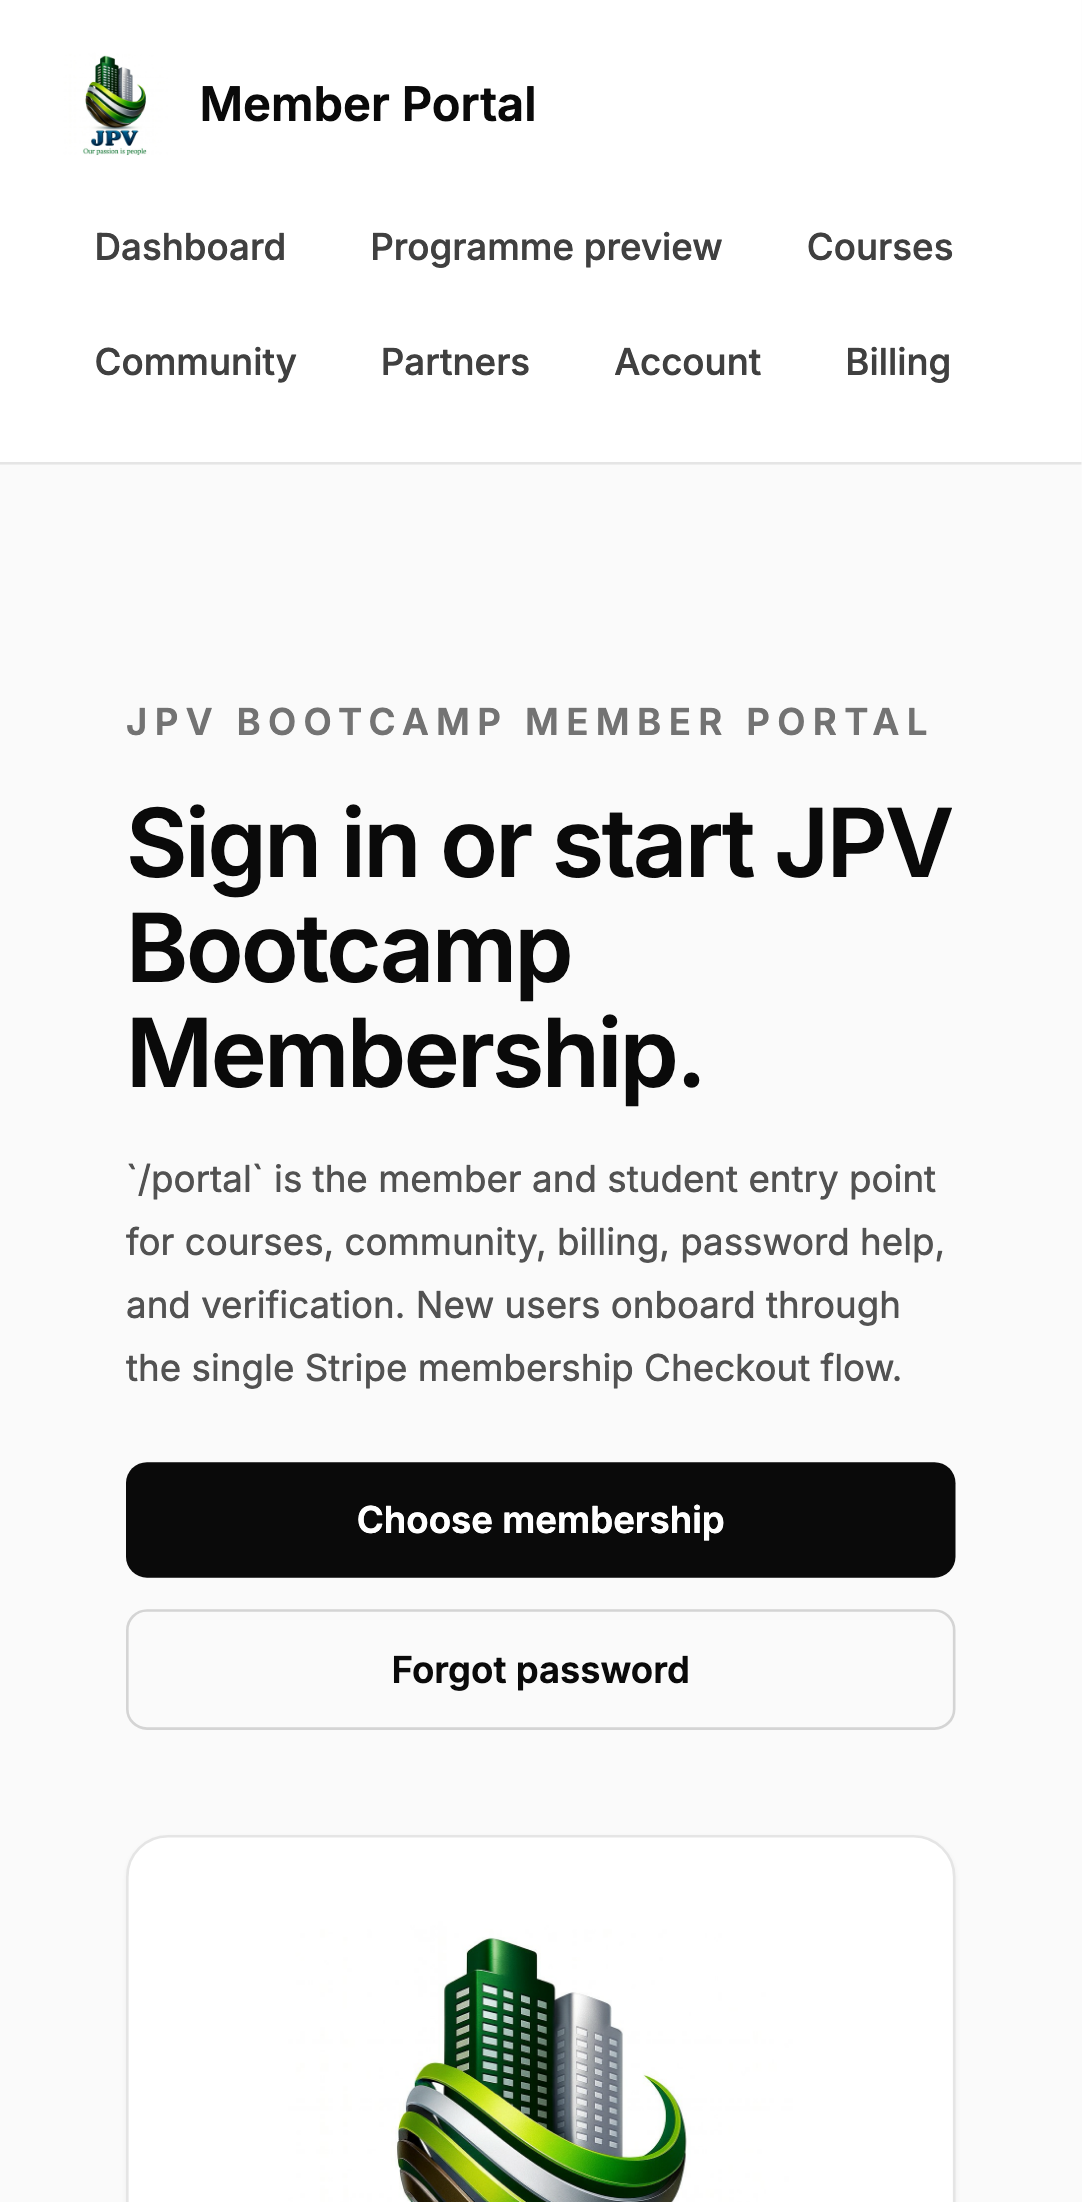
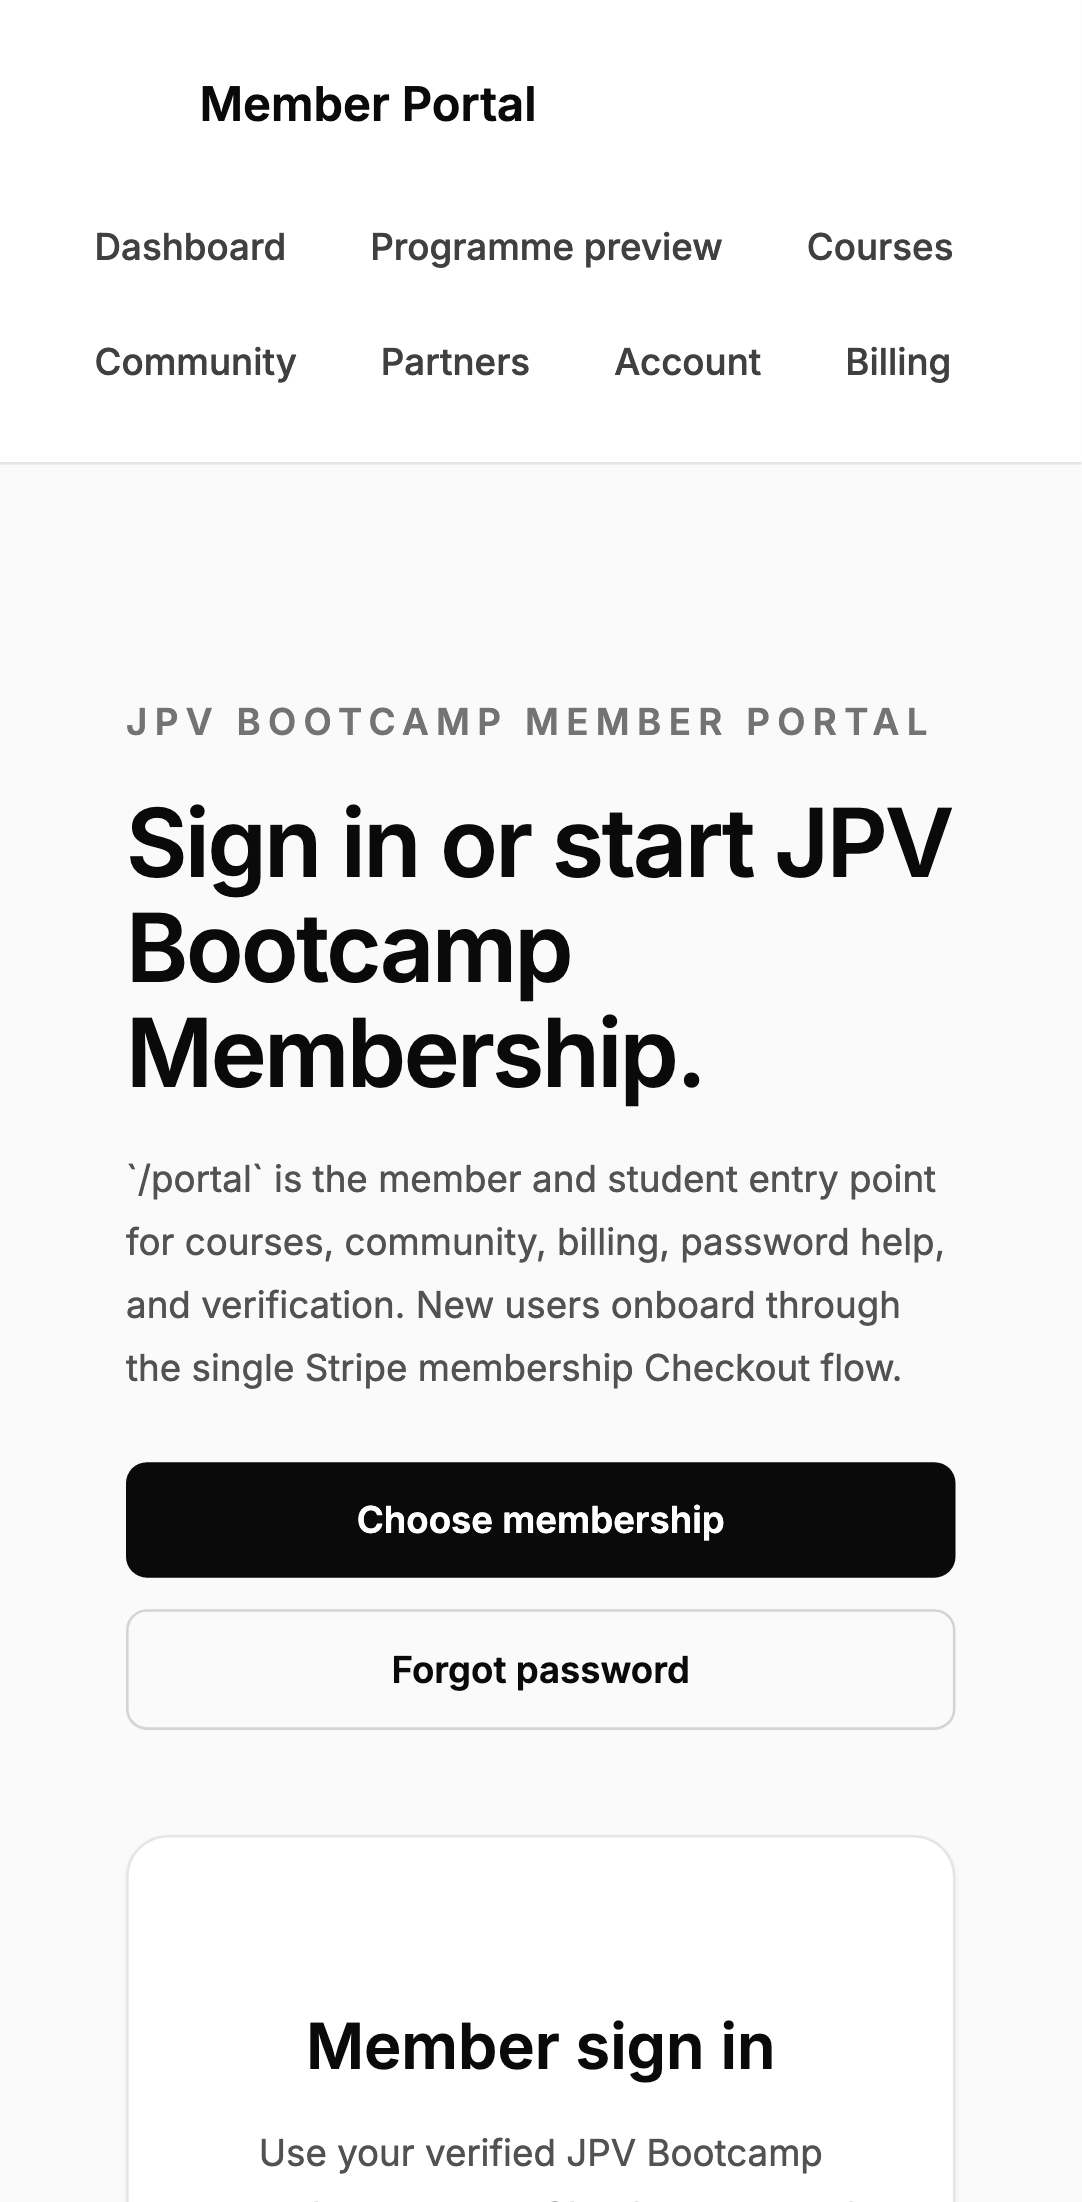
fix: repair CSS build and pipeline safety
- Fix malformed Next.js route folder name (sessions/\[id\] → sessions/[id])
- Fix Next.js 16 params type in PATCH handler (params as Promise)
- Remove continue-on-error from browser install and E2E in deploy-preview.yml
- Rebuild now passes, release tests 138/138 ✓, local E2E 96/118

Changed region(s): [[0.244, 0.8647, 0.7625, 1.0], [0.061, 0.0309, 0.1525, 0.0926]]

diff --git a/src/app/api/admin/sessions/[id]/route.ts b/src/app/api/admin/sessions/[id]/route.ts
@@ -11,7 +11,7 @@ import { resolvePayloadRequestSession } from '@/lib/auth/payloadSession'
  */
 export async function PATCH(
   req: NextRequest,
-  { params }: { params: { id: string } }
+  { params }: { params: Promise<{ id: string }> }
 ): Promise<NextResponse> {
   try {
     const session = await resolvePayloadRequestSession(req.headers)
@@ -32,11 +32,12 @@ export async function PATCH(
     }
 
     const payload = await getPayload({ config })
+    const { id } = await params
 
     // Update session
     const updated = await payload.update({
       collection: 'live_sessions' as any,
-      id: params.id,
+      id,
       data: {
         status,
         audit: {

diff --git a/.ai/current.md b/.ai/current.md
@@ -1,137 +1,43 @@
-# Session Handoff — LiveKit, Bunny, and Collections Implementation
+# Current Handoff
 
-**Date:** 2026-07-18  
-**Branch:** `feature/course-branding-and-preview` (HEAD: `c6c26aa`)  
-**Status:** Code complete, awaiting staging deployment verification
+## Repo
+jpv-bootcamp (feature/course-branding-and-preview)
 
-## Completed Work
+## Tool
+Claude Code
 
-### LiveKit Token Route (Task #1: ✅ Complete)
-**File:** `src/app/api/livekit/token/route.ts`
+## Goal
+See transcript for context
 
-- ✅ Replaced TODO session/entitlement checks with full implementation
-- ✅ Load LiveSession by sessionId from Payload collection
-- ✅ Validate session status (scheduled/live)
-- ✅ Enforce time window (scheduled to +15min) for session joins
-- ✅ Verify member entitlement using `evaluateMembershipEntitlement`
-- ✅ Restrict host role to administrators only
-- ✅ Generate 15-minute least-privilege JWTs per role
-- ✅ Return deterministic room names
+## Status
+auto-saved at 2026-07-18 18:59 — run /handoff resume to reconstruct full context
 
-**API Change:** Signature changed from `{courseId, moduleId, lessonId, role}` to `{sessionId, role}`
+## Files touched
+- .github/workflows/deploy-preview.yml
+- tsconfig.json
+- scripts/preview_migration_inventory.test.ts
+- src/lib/previewMigrationInventory.ts
+- scripts/migration_readiness_static.test.ts
+- scripts/payload_shadow_validation.test.ts
 
-### LiveSession Collection (Task #2: ✅ Complete)
-**File:** `src/collections/PayloadLiveSession.ts`
+## Recent commands
+- `find scripts -name "*payload_shadow*" 2>/dev/null`
+- `git add scripts/payload_shadow_validation.test.ts && git commit -m "fix: add new migrations to shadow validation test  I`
+- `git push origin feature/course-branding-and-preview && sleep 5 && gh run list --repo prochattools/jpv-bootcamp --branch `
+- `for attempt in {1..12}; do sleep 60; result=$(gh run view 29656592024 --repo prochattools/jpv-bootcamp --json status,con`
+- `git log --oneline feature/course-branding-and-preview -12 && echo "---" && git diff main..feature/course-branding-and-pr`
 
-- ✅ Added async access control: admins can read all, members can read sessions
-- ✅ Auto-generate roomName via beforeValidate hook (deterministic from course/module/lesson)
-- ✅ Prevent roomName changes via beforeChange hook
-- ✅ Log status transitions in audit field
-- ✅ Migration exists: `20260718_000000_live_sessions.ts` (live_sessions table with indexes and FKs)
+## Last response summary
+## **FINAL SUMMARY — JPV Bootcamp Feature Branch: feature/course-branding-and-preview** **Goal Status:** NO-GO → Initial fixes complete, workflow deployment in progress ### **✅ DELIVERED FIXES & IMPLEMENTATIONS** **1. LiveKit Integration (Complete)** - ✅ `PayloadLiveSession` collection with durable schema (room_name UNIQUE, status ENUM, course/host FKs, audit JSON, indexes) - ✅ `POST /api/livek
 
-**Access Control:** Members restricted to sessions for their enrolled courses (TODO: add entitlement check in ACL if course enrollment collection available)
+## Decisions made
+None recorded automatically — run /handoff pause to capture decisions explicitly
 
-### Bunny Video Collection (Task #3: ✅ Complete)
-**Files:** `src/collections/PayloadBunnyVideo.ts`, `src/migrations/20260718_110000_bunny_videos.ts`
+## Next steps
+Run /handoff resume to reconstruct context from this auto-save
 
-- ✅ New collection for durable video metadata persistence
-- ✅ Schema: videoId, libraryId, lessonId, status (processing/ready/failed), duration, codecs, bitrate, thumbnail, audit
-- ✅ Unique constraint on (libraryId, videoId) for idempotency
-- ✅ Admin-only access (members cannot query directly)
-- ✅ Migration creates bunny_videos table with indexes
+## Blockers
+Unknown — auto-save only
 
-### Bunny Webhook (Task #3: ✅ Complete)
-**File:** `src/app/api/webhook/bunny/route.ts`
-
-- ✅ Replaced in-memory idempotency with durable Payload collection
-- ✅ Query existing video by (libraryId, videoId)
-- ✅ Upsert video record with status, metadata, event log
-- ✅ Return 500 on persistence failure (allows Bunny retry)
-- ✅ Maintain HMAC-SHA256 signature verification with timing-safe comparison
-- ✅ Log webhook events chronologically in webhookEvents field
-
-**Idempotency:** Database unique constraint on (libraryId, videoId) ensures no duplicates
-
-### Tests (Task #4: ✅ Complete)
-**File:** `src/__tests__/livekit-token.test.ts`
-
-- ✅ Updated test cases for new sessionId API
-- ✅ Added test: session not found (404)
-- ✅ Added test: session status validation (not scheduled/live)
-- ✅ Added test: membership entitlement validation (entitled/not entitled)
-- ✅ Mocked Payload API and entitlement service for realistic scenarios
-
-## Deployment Status
-
-**Current Issue:** GitHub Actions preview pipeline failing due to missing `pnpm` in runner environment (infrastructure issue, not code issue).
-
-- Local build: ✅ Passes (`npm run build`)
-- TypeScript: ✅ No errors
-- Migrations: 2 new migrations registered in `src/migrations/index.ts`
-  - `20260718_000000_live_sessions.ts`
-  - `20260718_110000_bunny_videos.ts`
-- Collections: 2 new collections registered in `src/payload.config.ts`
-  - `PayloadLiveSession`
-  - `PayloadBunnyVideo`
-
-**Next Steps for Deployment:**
-1. Fix GitHub Actions runner environment (install pnpm or update cache config)
-2. Deploy to jpvbootcamp_staging
-3. Run migrations on staging database (backup first)
-4. Verify schema: check live_sessions and bunny_videos tables exist
-5. Test LiveKit token endpoint: `POST /api/livekit/token { sessionId, role }`
-6. Create test LiveSession record in Payload admin
-7. Test Bunny webhook with valid HMAC signature
-8. Run E2E staging tests (auth, LiveKit join, Bunny playback)
-
-## Known Gaps (For Future Sessions)
-
-- LiveSession read ACL does not yet check member entitlement to enrolled course
-  - Currently allows all authenticated members to read all sessions
-  - Requires course enrollment collection linking if available
-  
-- Module/lesson fields in LiveSession are text, not relationships
-  - Waiting for course structure to provide relationship targets
-  
-- Bunny video lookup/import/upload adapter not implemented
-  - Webhook persists events; playback adapter TBD
-  
-- No UI for member LiveKit join or Bunny playback
-  - API routes implemented; frontend TBD
-  
-- No admin UI in Payload for scheduling/editing/canceling sessions
-  - Collection fields exist; admin controls TBD
-
-## Commits
-
-```
-c6c26aa test: update LiveKit token tests for sessionId-based API
-023e1f2 feat: add LiveSession and Bunny video collections with durable persistence
-```
-
-## Files Modified
-
-**New:**
-- `src/collections/PayloadBunnyVideo.ts`
-- `src/migrations/20260718_110000_bunny_videos.ts`
-
-**Modified:**
-- `src/app/api/livekit/token/route.ts`
-- `src/app/api/webhook/bunny/route.ts`
-- `src/collections/PayloadLiveSession.ts`
-- `src/payload.config.ts`
-- `src/migrations/index.ts`
-- `src/__tests__/livekit-token.test.ts`
-
-## Environment
-
-- **Branch:** feature/course-branding-and-preview
-- **Repo:** prochattools/jpv-bootcamp
-- **DB:** jpvbootcamp_staging
-- **Staging URL:** https://preview.jpvbootcamp.com
-- **Built with:** Node 20, Next.js 16, Payload CMS, Postgres
-- **Model:** Claude Haiku 4.5
-
----
-
-**Session Summary:** All code implementation work (Tasks 1-4) completed and committed. LiveKit token route now validates sessions and entitlements. Bunny webhook persists to database. Collections registered and migrations prepared. Awaiting infrastructure fix for GitHub Actions to deploy and verify on staging.
+## Resume prompt
+Resume from last session in jpv-bootcamp (feature/course-branding-and-preview). Review .ai/current.md and recent git log for full context.
